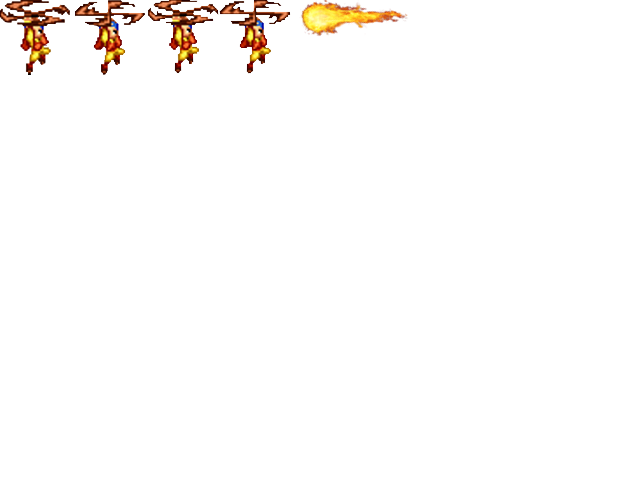
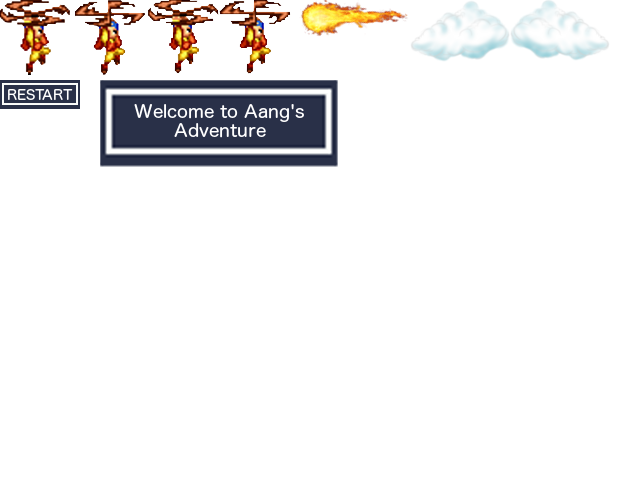
initial commit

diff --git a/js/gameLogic.js b/js/gameLogic.js
@@ -14,7 +14,10 @@ var currentState,
     frames = 0,
     height,
     aang,
-    fireballs;
+    clouds,
+    fireballs,
+    playerScore = 0,
+    highScore = 0;
 
 function Aang() {
     this.x = 100;
@@ -72,6 +75,11 @@ function Aang() {
         // If our player hits the top of the canvas, we crash him
         if (this.y <= 2) {
             currentState = states.Score;
+            updateScore()
+        }
+        if (this.y >= 420) {
+            currentState = states.Score;
+            updateScore()
         }
 
     };
@@ -93,39 +101,81 @@ function Aang() {
 function FireCollection() {
 
     this._fireballs = [];
-
     this.reset = function () {
         this._fireballs = [];
     };
-
     this.add = function () {
         this._fireballs.push(new Fireball());
     };
-
     this.update = function () {
-        if (frames % 100 === 0) { // Add a new coral to the game every 100 frames.
+        if (frames % 50 === 0) {
             this.add();
         }
+        for (var i = 0, len = this._fireballs.length; i < len; i++) {
+            var fireball = this._fireballs[i];
+                fireball.detectCollision();
+            fireball.x -= 2;
+            if (fireball.x < -fireball.width) {
+                this._fireballs.splice(i, 1);
+                i--;
+                len--;
+            }
+            if (fireball.x === aang.x) {
+                playerScore++;
+                document.getElementById('currentScore').innerHTML = playerScore;
+
+            }
+        }
     };
-    for (var i = 0, len = this._fireballs.length; i < len; i++) { // Iterate through the array of corals and update each.
-        var fireball = this._fireballs[i]; // The current coral.
-
-        if (i === 0) { // If this is the leftmost coral, it is the only coral that the fish can collide with . . .
-            fireball.detectCollision(); // . . . so, determine if the fish has collided with this leftmost coral.
-        }
-
-        fireball.x -= 2; // Each frame, move each coral two pixels to the left. Higher/lower values change the movement speed.
-        if (fireball.x < -coral.width) { // If the coral has moved off screen . . .
-            this._fireballs.splice(i, 1); // . . . remove it.
-            i--;
-            len--;
-        }
-    }
     
     this.draw = function () {
         for (var i = 0, len = this._fireballs.length; i < len; i++) {
             var fireball = this._fireballs[i];
             fireball.draw();
+        }
+    };
+}
+
+function Cloud() {
+    this.x = 430;
+    this.y =  (cloudSprite.height + 430)  * Math.random();
+    this.width = cloudSprite.width;
+    this.height = cloudSprite.height;
+    
+
+    this.draw = function () {
+        cloudSprite.draw(renderingContext, this.x, this.y);
+    }
+}
+
+
+function CloudCollection() {
+
+    this._clouds = [];
+    this.reset = function () {
+        this._clouds = [];
+    };
+    this.add = function () {
+        this._clouds.push(new Cloud());
+    };
+    this.update = function () {
+        if (frames % 100 === 0) {
+            this.add();
+        }
+        for (var i = 0, len = this._clouds.length; i < len; i++) {
+            var cloud = this._clouds[i];
+            cloud.x -= 1;
+            if (cloud.x < -cloud.width) {
+                this._clouds.splice(i, 1);
+                i--;
+                len--;
+            }
+        }
+    };
+    this.draw = function () {
+        for (var i = 0, len = this._clouds.length; i < len; i++) {
+            var cloud = this._clouds[i];
+            cloud.draw();
         }
     };
 }
@@ -142,6 +192,7 @@ function main() {
 
     aang = new Aang();
     fireballs = new FireCollection();
+    clouds = new CloudCollection();
 
     loadGraphics();
 }
@@ -154,7 +205,7 @@ function windowSetup() {
     //set the width and height if we are on a display with a width of > 500px or greater
 
     if (width >= 500) {
-        width = 300;
+        width = 430;
         height = 430;
         inputEvent = "mousedown";
     }
@@ -170,6 +221,7 @@ function onpress(evt) {
         case states.Hovering:
             currentState = states.Game;
             aang.jump();
+            document.getElementById('currentScore').innerHTML = playerScore;
             break;
 
         case states.Game:
@@ -185,17 +237,17 @@ function onpress(evt) {
                 mouseY = evt.touches[0].clientY;
             }
 
-        /*  // Check if within the okButton
+        // Check if within the okButton
          if (okButton.x < mouseX && mouseX < okButton.x + okButton.width &&
          okButton.y < mouseY && mouseY < okButton.y + okButton.height
          ) {
-         //console.log('click');
-         corals.reset();
-         currentState = states.Splash;
+         fireballs.reset();
+             clouds.reset();
+         currentState = states.Hovering;
          score = 0;
          }
          break;
-         */
+
     }
 }
 
@@ -215,23 +267,29 @@ function loadGraphics() {
         initSprites(this);
         renderingContext.fillStyle = backgroundSprite.color;
         renderingContext.fillRect(0, 0, width, height);
-
-
-        /*      okButton = {
-         x: (width - okButtonSprite.width) /2,
-         y: height - 200,
+        
+         okButton = {
+         x: (width - okButtonSprite.width)/ 2,
+         y: (height - okButtonSprite.height)/2,
          width: okButtonSprite.width,
          height: okButtonSprite.height
          };
-         */
+
+        startMenuBox = {
+            x: (width - startMenuSprite.width)/ 2,
+            y: (height - startMenuSprite.height)/2,
+            width: startMenuSprite.width,
+            height: startMenuSprite.height
+        };
+
         gameLoop();
 
     };
 }
 
 function Fireball() {
-    this.x = 200;
-    this.y = height - (fireballSprite.height + aangSprite.height + 120 + 200 * Math.random());
+    this.x = 430;
+    this.y =  (fireballSprite.height + 390)  * Math.random();
     this.width = fireballSprite.width;
     this.height = fireballSprite.height;
 
@@ -243,18 +301,16 @@ function Fireball() {
         // intersection
         var cx = Math.min(Math.max(aang.x, this.x), this.x + this.width);
         var cy1 = Math.min(Math.max(aang.y, this.y), this.y + this.height);
-        var cy2 = Math.min(Math.max(aang.y, this.y + this.height + 110), this.y + 2 * this.height + 80);
         // Closest difference
         var dx = aang.x - cx;
         var dy1 = aang.y - cy1;
-        var dy2 = aang.y - cy2;
         // Vector length
         var d1 = dx * dx + dy1 * dy1;
-        var d2 = dx * dx + dy2 * dy2;
         var r = aang.radius * aang.radius;
         // Determine intersection
-        if (r > d1 || r > d2) {
+        if (r > d1) {
             currentState = states.Score;
+           updateScore();
         }
     };
 
@@ -271,21 +327,40 @@ function gameLoop() {
 function update() {
     frames++;
 
-    /* if(currentState !== states.Score) {
-     foregroundPosition = (foregroundPosition - 2) % 14;
-     } */
+    if (currentState === states.Hovering) {
+        clouds.update();
+    }
     if (currentState === states.Game) {
        fireballs.update();
+        clouds.update();
     }
-
 
     aang.update()
 }
 
 function render() {
     renderingContext.fillRect(0, 0, width, height);
+    clouds.draw(renderingContext);
     fireballs.draw(renderingContext);
-
     aang.draw(renderingContext);
 
+    if (currentState === states.Score) {
+        okButtonSprite.draw(renderingContext, okButton.x, okButton.y);
+    }
+
+    if (currentState === states.Hovering) {
+        startMenuSprite.draw(renderingContext, startMenuBox.x, startMenuBox.y);
+    }
+
+}
+
+function updateScore() {
+    if (playerScore > highScore) {
+        highScore = playerScore;
+        document.getElementById('highScore').innerHTML = highScore;
+        playerScore = 0;
+    }
+    else {
+        playerScore = 0;
+    }
 }

diff --git a/js/gameGraphics.js b/js/gameGraphics.js
@@ -20,6 +20,10 @@ function Sprite(img, x, y, width, height) {
         fireballSprite = new Sprite(img, 301, 0 , 107, 36 );
         backgroundSprite = new Sprite(img, 0, 0, 138, 114);
         backgroundSprite.color = "#88e4FD";
+        cloudSprite = new Sprite(img, 410, 0, 100, 61 );
+        okButtonSprite = new Sprite(img, 0, 75, 80, 37);
+        startMenuSprite = new Sprite(img,100, 80, 238, 87);
+        
 }
 
 Sprite.prototype.draw = function(renderingContext, x, y) {

diff --git a/html/index.html b/html/index.html
@@ -8,6 +8,8 @@
 
 </head>
 <body onload = 'main()'>
+<div id="scoreDiv"> <h2>Player Score: <span id="currentScore">0</span></h2></div>
+<div id="highSoreDiv"><h2>High Score: <span id="highScore">0</span></h2></div>
 
 </body>
 </html>
